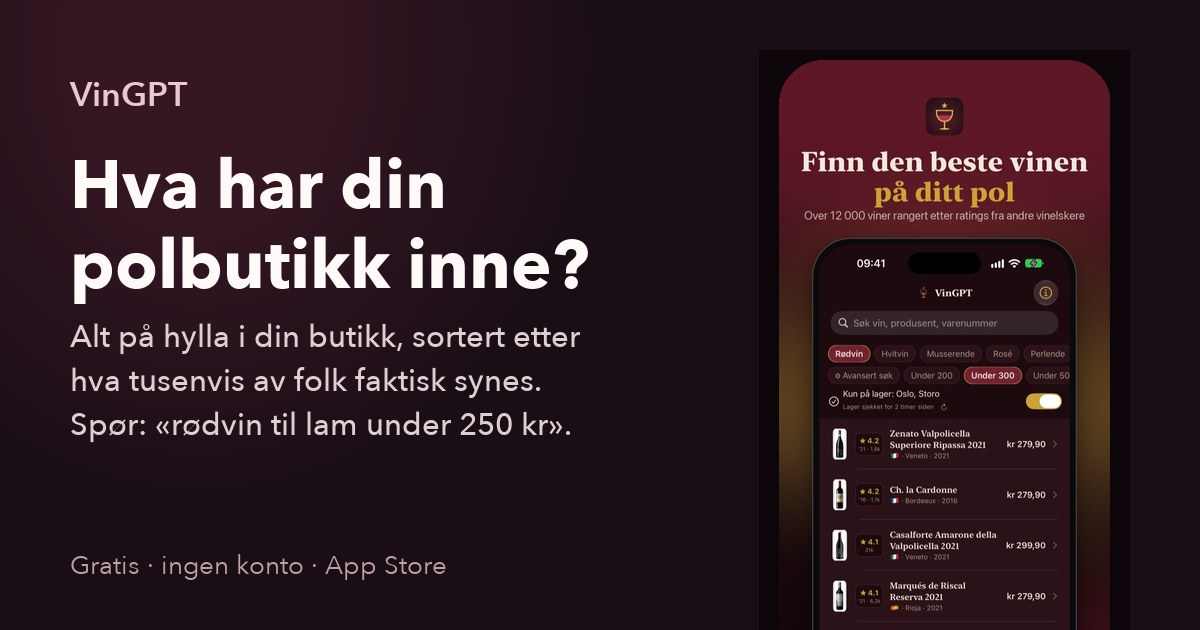
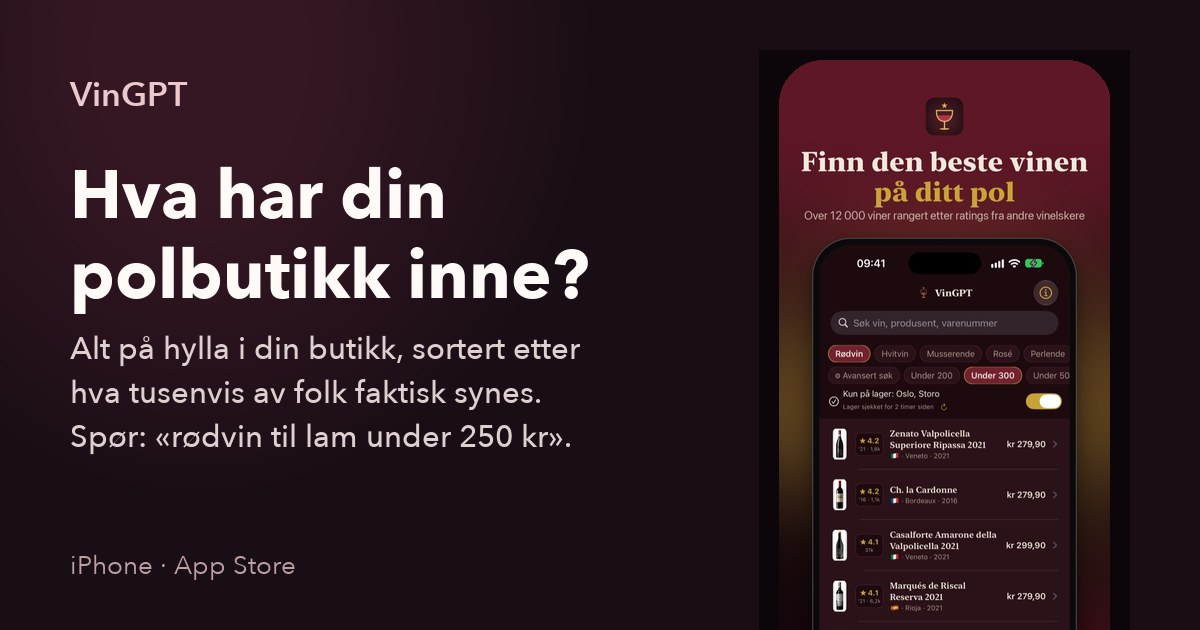
godvin: uten «gratis» og «ingen konto» (Jens 05.11: appen blir betalbar)

Changed region(s): [[0.0617, 0.2413, 0.4933, 0.7238], [0.0617, 0.8746, 0.37, 0.9349]]

diff --git a/godvin/index.html b/godvin/index.html
@@ -4,9 +4,9 @@
 <meta charset="utf-8">
 <meta name="viewport" content="width=device-width, initial-scale=1">
 <title>VinGPT — hva har din polbutikk inne?</title>
-<meta name="description" content="Alt på hylla i din Vinmonopol-butikk, sortert etter hva tusenvis av folk faktisk synes. Spør på vanlig norsk. Gratis iPhone-app.">
+<meta name="description" content="Alt på hylla i din Vinmonopol-butikk, sortert etter hva tusenvis av folk faktisk synes. Spør på vanlig norsk. iPhone-app.">
 <meta property="og:title" content="VinGPT — hva har din polbutikk inne?">
-<meta property="og:description" content="Alt på hylla i din butikk, sortert etter hva tusenvis av folk faktisk synes. Spør: «rødvin til lam under 250 kr». Gratis, ingen konto.">
+<meta property="og:description" content="Alt på hylla i din butikk, sortert etter hva tusenvis av folk faktisk synes. Spør: «rødvin til lam under 250 kr».">
 <meta property="og:image" content="https://jensconradi.github.io/vingpt-side/godvin/kort.jpg">
 <meta property="og:image:width" content="1200">
 <meta property="og:image:height" content="630">
@@ -25,7 +25,7 @@
 <div class="hero">
 <h1>VinGPT</h1>
 <p class="lofte">Hva har <em>din polbutikk</em> inne?</p>
-<a class="appstore" href="https://apps.apple.com/no/app/id6796675360?pt=129246957&amp;ct=facebook_godvin&amp;mt=8">Last ned gratis i App Store</a>
+<a class="appstore" href="https://apps.apple.com/no/app/id6796675360?pt=129246957&amp;ct=facebook_godvin&amp;mt=8">Hent i App Store</a>
 </div>
 </main>
 </body>
